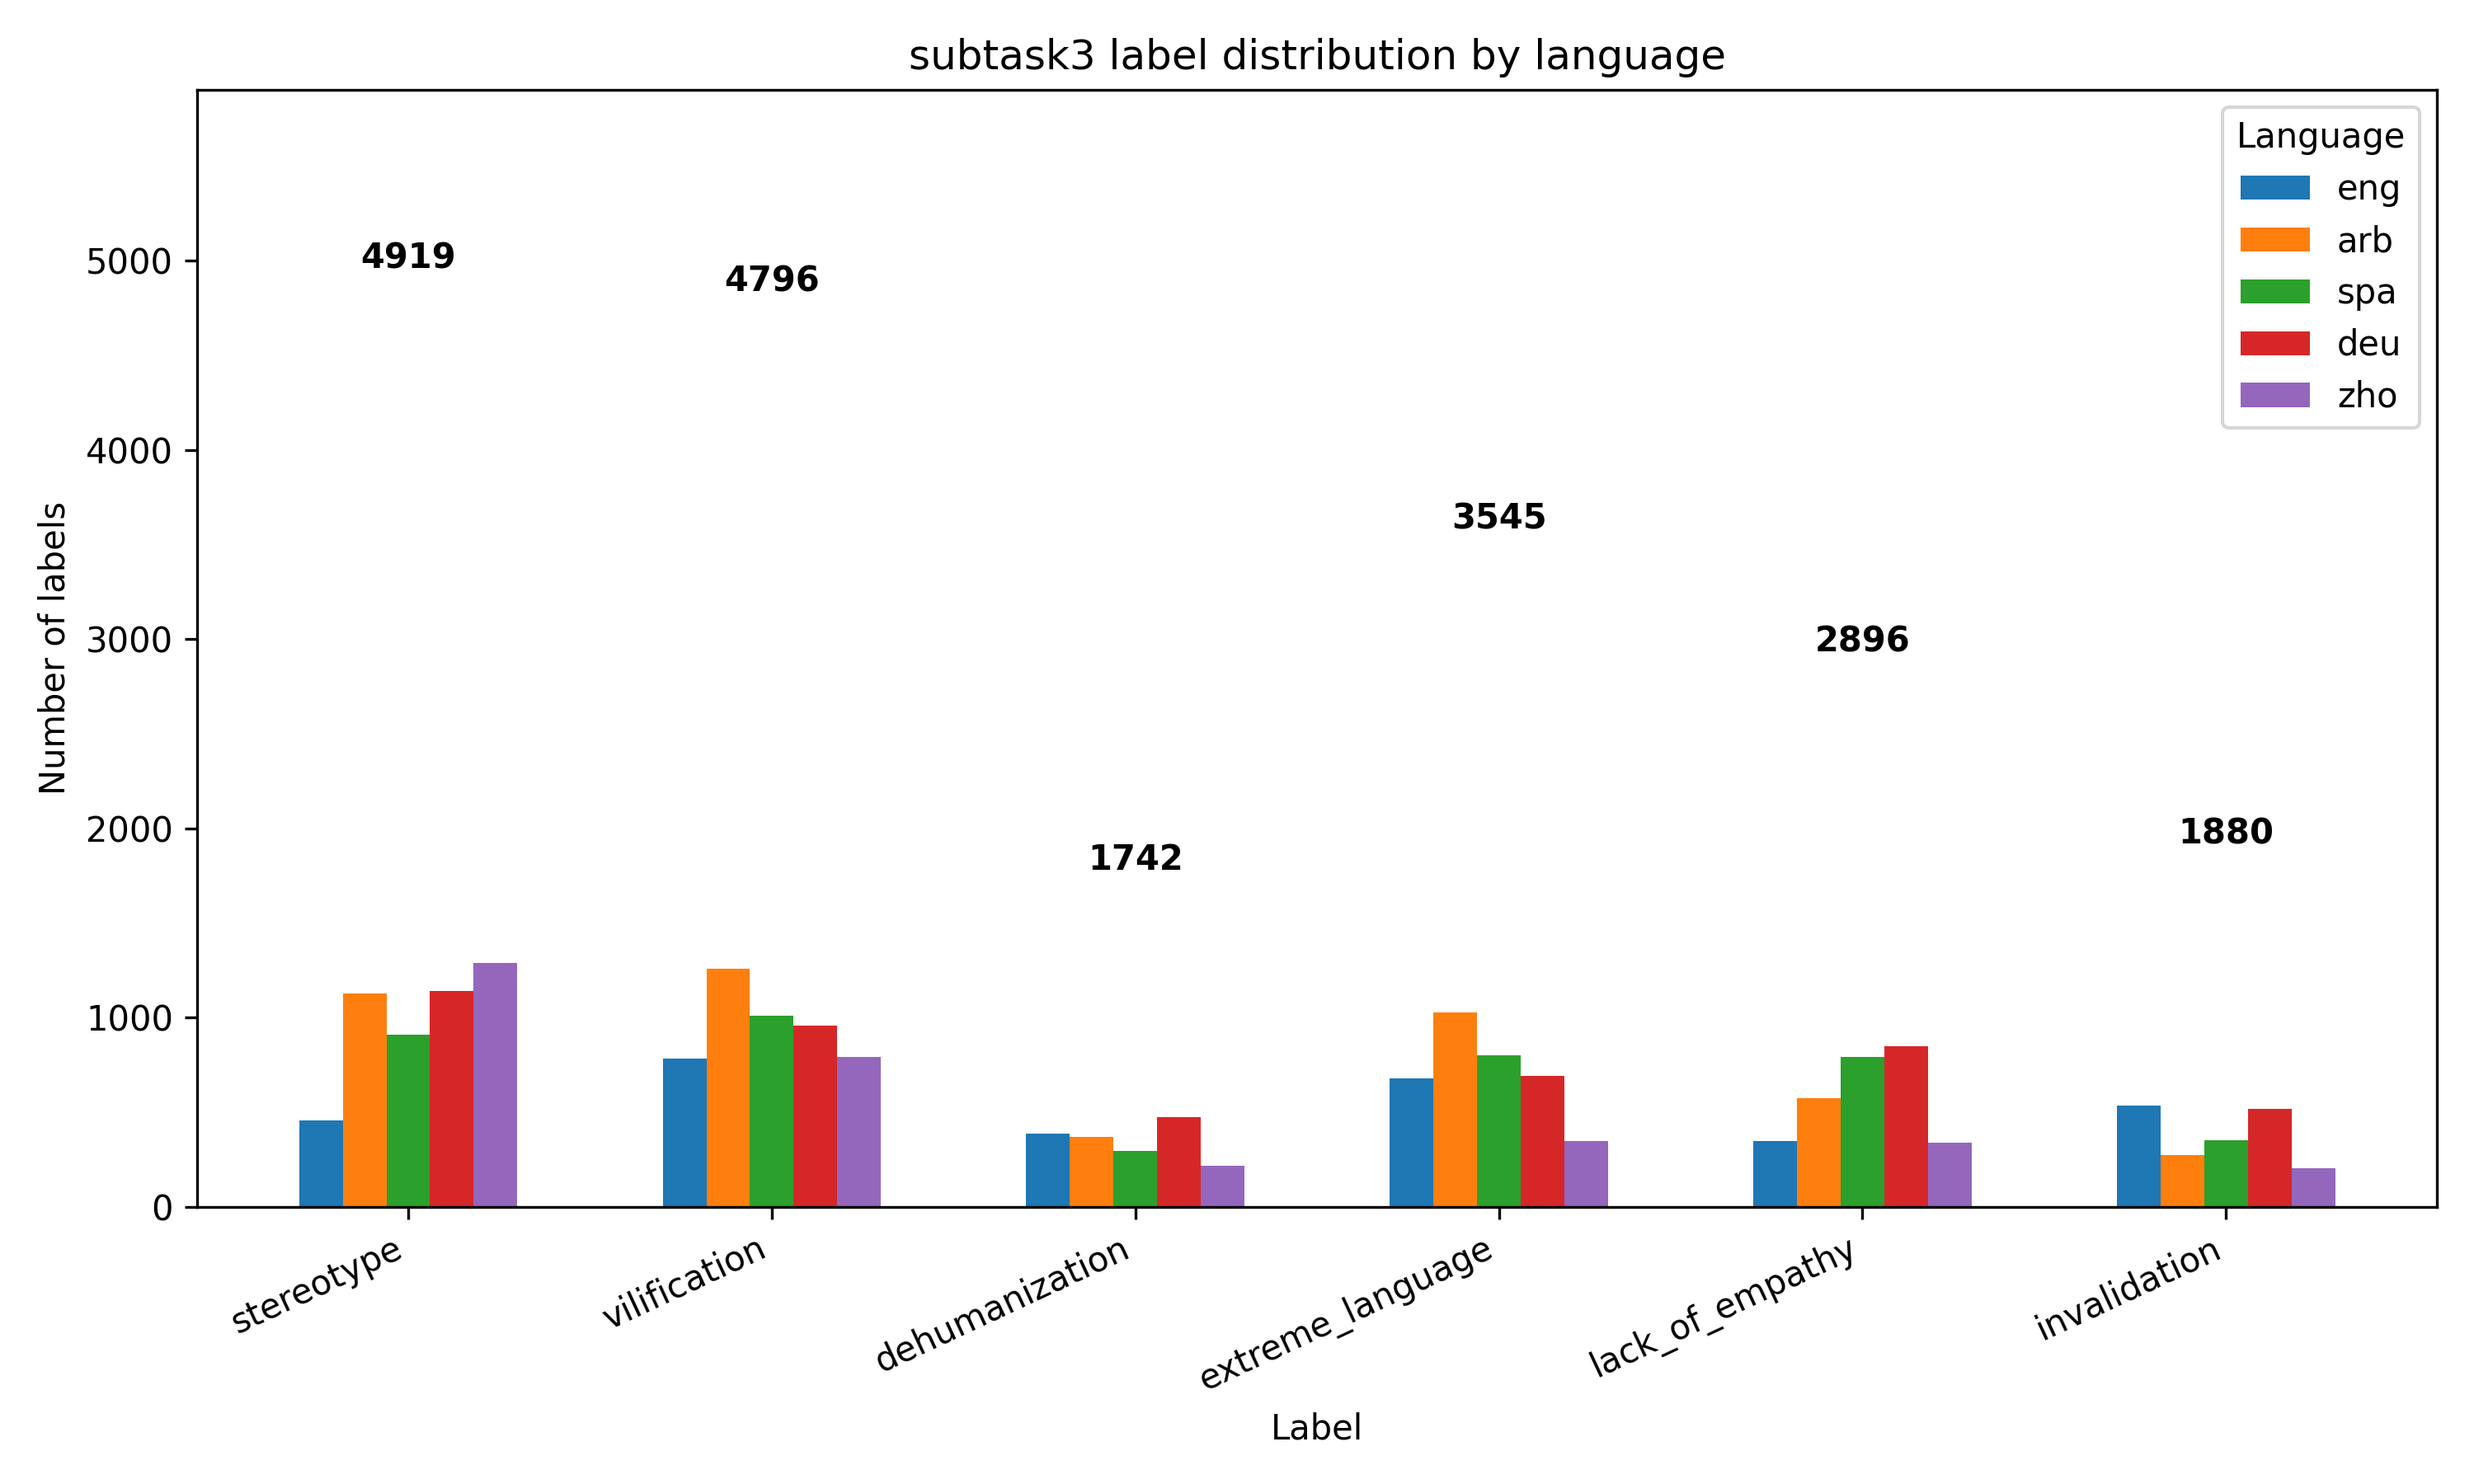
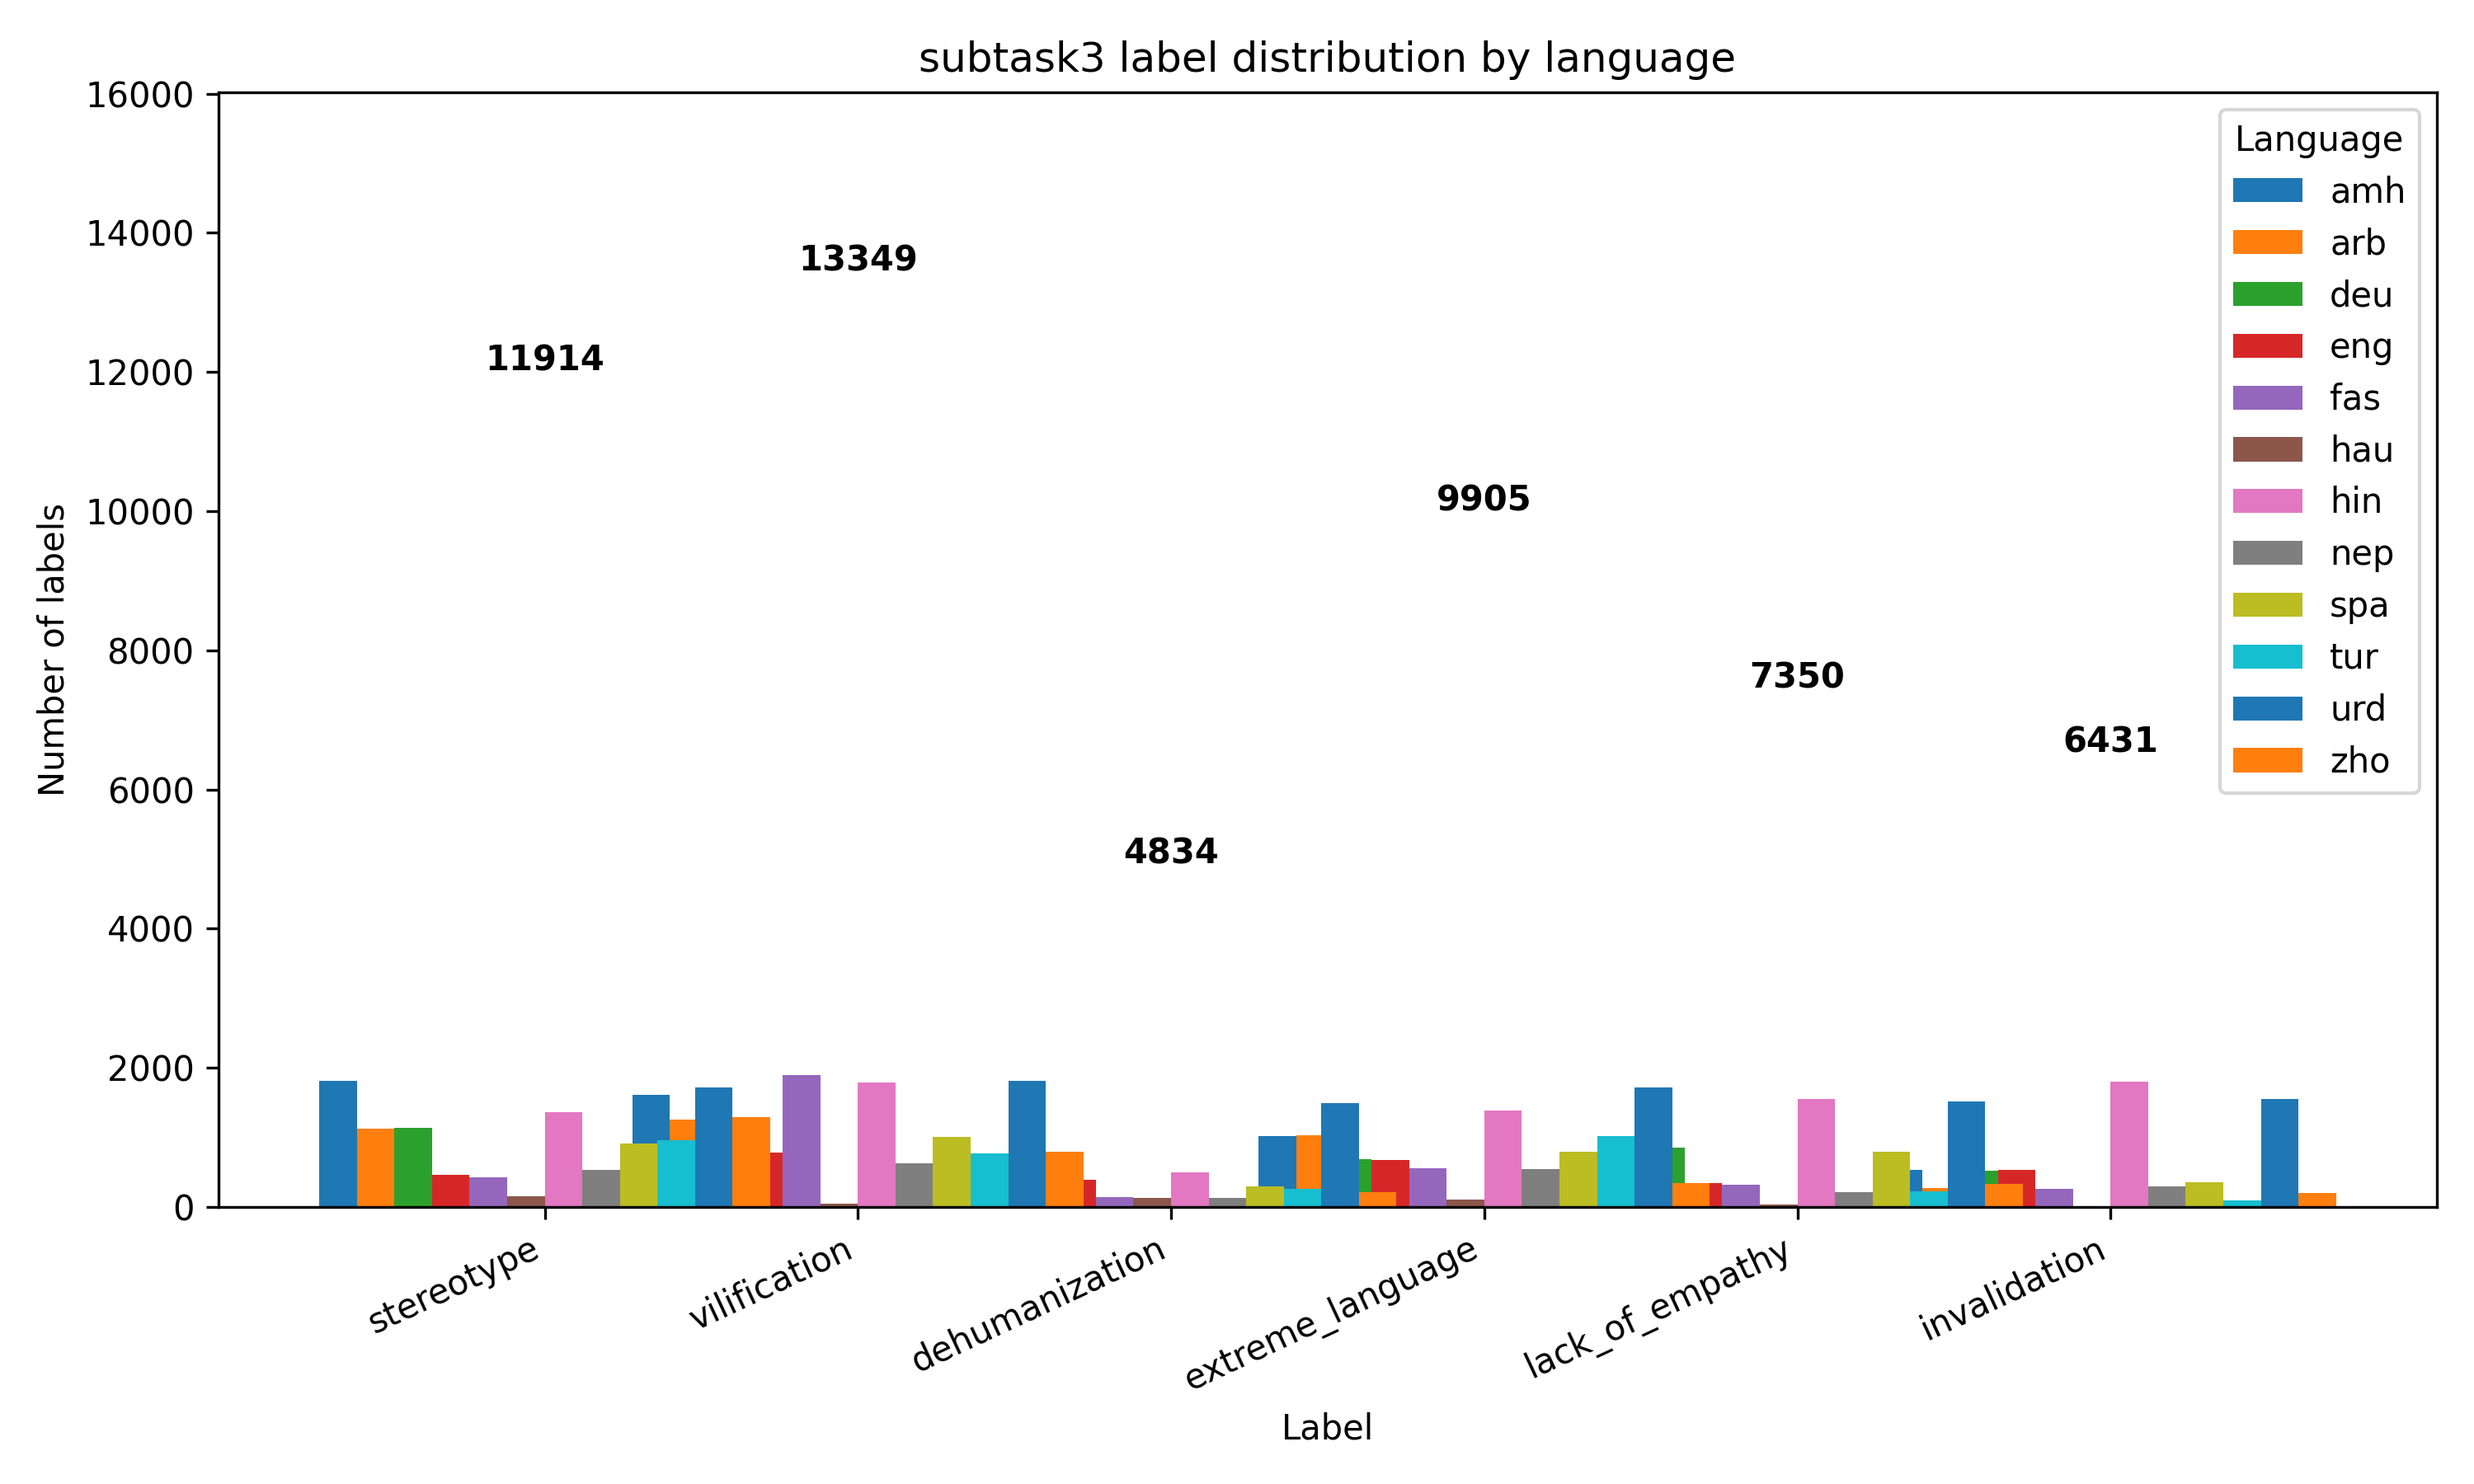
data distributions count for subtask 2 added

diff --git a/plot_data_distributions.py b/plot_data_distributions.py
@@ -67,10 +67,33 @@ def parse_args() -> argparse.Namespace:
     parser.add_argument(
         "--languages",
         nargs="+",
-        default=LANG_CODES,
-        help="Language codes to include (e.g., eng arb spa deu zho).",
+        default=None,
+        help="Language codes to include (e.g., eng arb spa deu zho). Defaults to "
+        "all languages with data in every subtask when omitted.",
     )
     return parser.parse_args()
+
+
+def discover_languages(data_root: Path) -> List[str]:
+    """Return languages that have train data for every subtask."""
+    lang_sets = []
+    for subtask in SUBTASK_CONFIG:
+        train_dir = data_root / subtask / "train"
+        langs = {p.stem for p in train_dir.glob("*.csv")}
+        if langs:
+            lang_sets.append(langs)
+    if not lang_sets:
+        raise FileNotFoundError("No training data found to detect languages.")
+    intersection = set.intersection(*lang_sets)
+    if intersection:
+        return sorted(intersection)
+    # Fall back to the union if the intersection is empty.
+    union_langs = sorted(set.union(*lang_sets))
+    print(
+        "Warning: Not all subtask directories share the same languages. "
+        "Using the union of available languages."
+    )
+    return union_langs
 
 
 def load_frames_by_language(
@@ -198,8 +221,7 @@ def plot_example_totals(
         for lang in languages
     }
     totals_df = pd.DataFrame(
-        [{"language": lang, "total_examples": totals_by_language[lang]}]
-        for lang in languages
+        [{"language": lang, "total_examples": totals_by_language[lang]} for lang in languages]
     )
     output_dir.mkdir(parents=True, exist_ok=True)
     table_path = output_dir / "train_examples_by_language.csv"
@@ -212,21 +234,48 @@ def plot_example_totals(
     return output_path
 
 
+def save_subtask2_language_table(
+    frames: Dict[str, pd.DataFrame], output_dir: Path
+) -> Path:
+    """Write a table of subtask2 class counts per language."""
+    label_cols = SUBTASK_CONFIG["subtask2"]["label_cols"]
+    rows = []
+    for lang, df in sorted(frames.items()):
+        row = {"language": lang, "total_examples": len(df)}
+        for col in label_cols:
+            row[col] = int(df[col].astype(int).sum())
+        rows.append(row)
+    if not rows:
+        raise ValueError("No subtask2 frames provided to save_subtask2_language_table.")
+
+    table = pd.DataFrame(rows)
+    output_dir.mkdir(parents=True, exist_ok=True)
+    path = output_dir / "subtask2_language_class_counts.csv"
+    table.to_csv(path, index=False)
+    print(f"subtask2: saved counts table to {path}")
+    return path
+
+
 def main() -> None:
     args = parse_args()
+    languages = (
+        discover_languages(args.data_root) if args.languages is None else args.languages
+    )
     frames_by_subtask: Dict[str, Dict[str, pd.DataFrame]] = {}
     for subtask in SUBTASK_CONFIG:
-        frames = load_frames_by_language(args.data_root, subtask, args.languages)
+        frames = load_frames_by_language(args.data_root, subtask, languages)
         frames_by_subtask[subtask] = frames
         per_lang_counts = count_labels_by_language(subtask, frames)
         label_order = SUBTASK_CONFIG[subtask]["label_cols"]
         if subtask == "subtask1":
             label_order = ["no", "yes"]
         output_path = plot_counts(
-            subtask, per_lang_counts, label_order, args.languages, args.output_dir
+            subtask, per_lang_counts, label_order, languages, args.output_dir
         )
         print(f"{subtask}: saved figure to {output_path}")
-    total_path = plot_example_totals(frames_by_subtask, args.languages, args.output_dir)
+        if subtask == "subtask2":
+            save_subtask2_language_table(frames, args.output_dir)
+    total_path = plot_example_totals(frames_by_subtask, languages, args.output_dir)
     print(f"Totals: saved figure to {total_path}")
 
 
